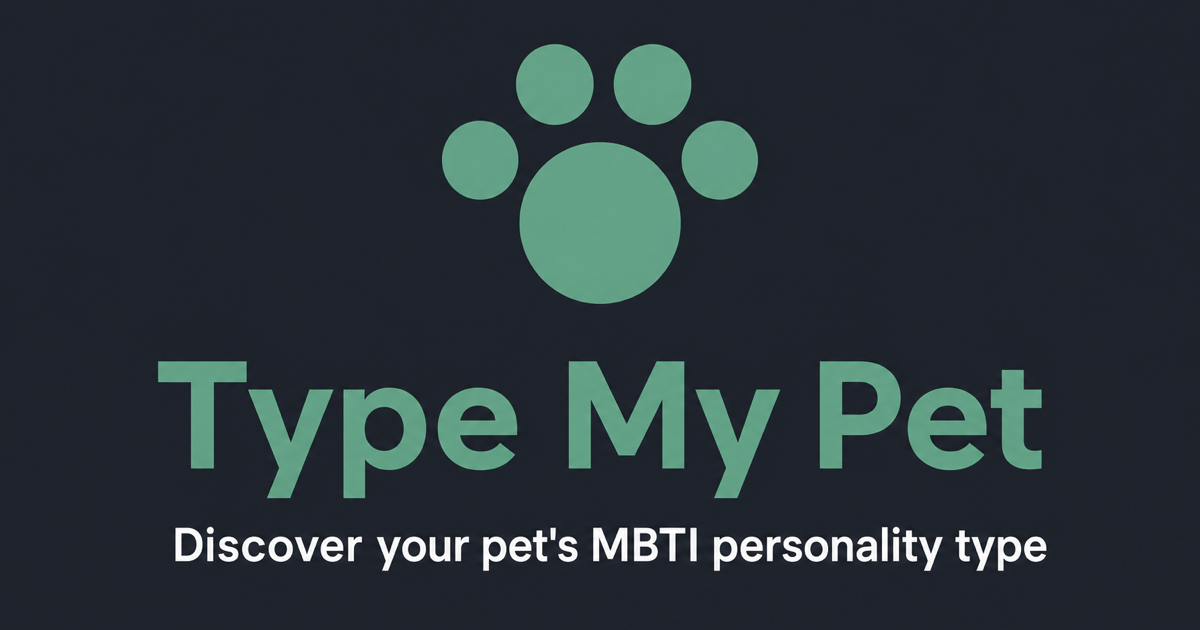
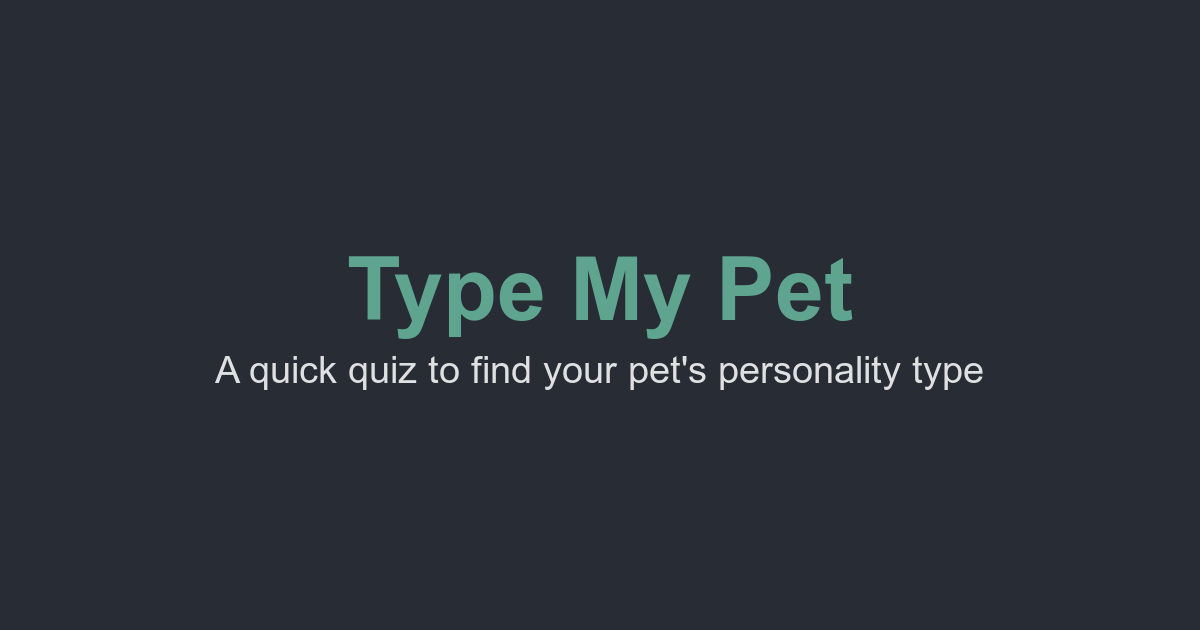
Add link prev img

Changed region(s): [[0.1233, 0.573, 0.8942, 0.8143], [0.2775, 0.0603, 0.7092, 0.5429], [0.1233, 0.8143, 0.8942, 0.9048]]

diff --git a/public/index.html b/public/index.html
@@ -5,10 +5,10 @@
     <meta name="viewport" content="width=device-width, initial-scale=1" />
     <meta name="theme-color" content="#5EA48F" />
 
-    <title>Type My Pet — Pet MBTI Quiz</title>
+    <title>Type My Pet | Pet MBTI Quiz</title>
     <meta
       name="description"
-      content="Discover your pet's MBTI personality type with a fun, interactive quiz."
+      content="A quick quiz to find your pet's personality type."
     />
     <meta name="application-name" content="Type My Pet" />
     <meta name="apple-mobile-web-app-title" content="Type My Pet" />
@@ -22,26 +22,26 @@
 
     <meta property="og:type" content="website" />
     <meta property="og:site_name" content="Type My Pet" />
-    <meta property="og:title" content="Type My Pet — Pet MBTI Quiz" />
+    <meta property="og:title" content="Type My Pet | Pet MBTI Quiz" />
     <meta
       property="og:description"
-      content="Discover your pet's MBTI personality type with a fun, interactive quiz."
+      content="A quick quiz to find your pet's personality type."
     />
     <meta property="og:url" content="https://typemypet.surge.sh/" />
     <meta property="og:image" content="https://typemypet.surge.sh/og-image.png" />
     <meta property="og:image:width" content="1200" />
     <meta property="og:image:height" content="630" />
-    <meta property="og:image:alt" content="Type My Pet — Pet MBTI Quiz" />
+    <meta property="og:image:alt" content="Type My Pet | Pet MBTI Quiz" />
     <meta property="og:locale" content="en_US" />
 
     <meta name="twitter:card" content="summary_large_image" />
-    <meta name="twitter:title" content="Type My Pet — Pet MBTI Quiz" />
+    <meta name="twitter:title" content="Type My Pet | Pet MBTI Quiz" />
     <meta
       name="twitter:description"
-      content="Discover your pet's MBTI personality type with a fun, interactive quiz."
+      content="A quick quiz to find your pet's personality type."
     />
     <meta name="twitter:image" content="https://typemypet.surge.sh/og-image.png" />
-    <meta name="twitter:image:alt" content="Type My Pet — Pet MBTI Quiz" />
+    <meta name="twitter:image:alt" content="Type My Pet | Pet MBTI Quiz" />
   </head>
   <body>
     <noscript>You need to enable JavaScript to run Type My Pet.</noscript>
